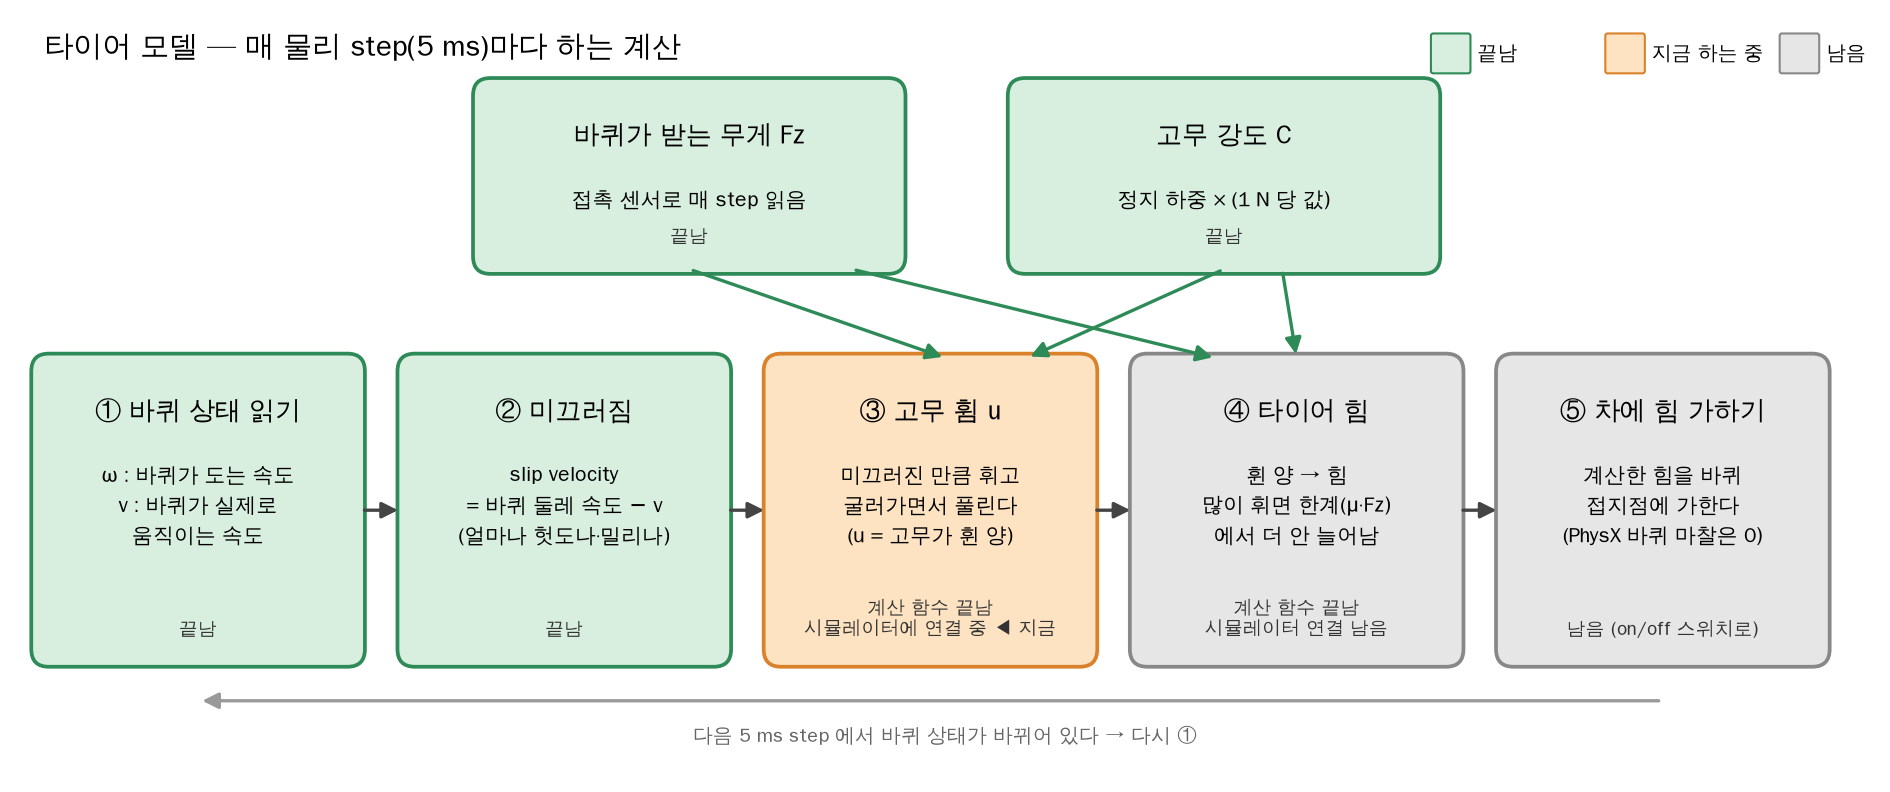
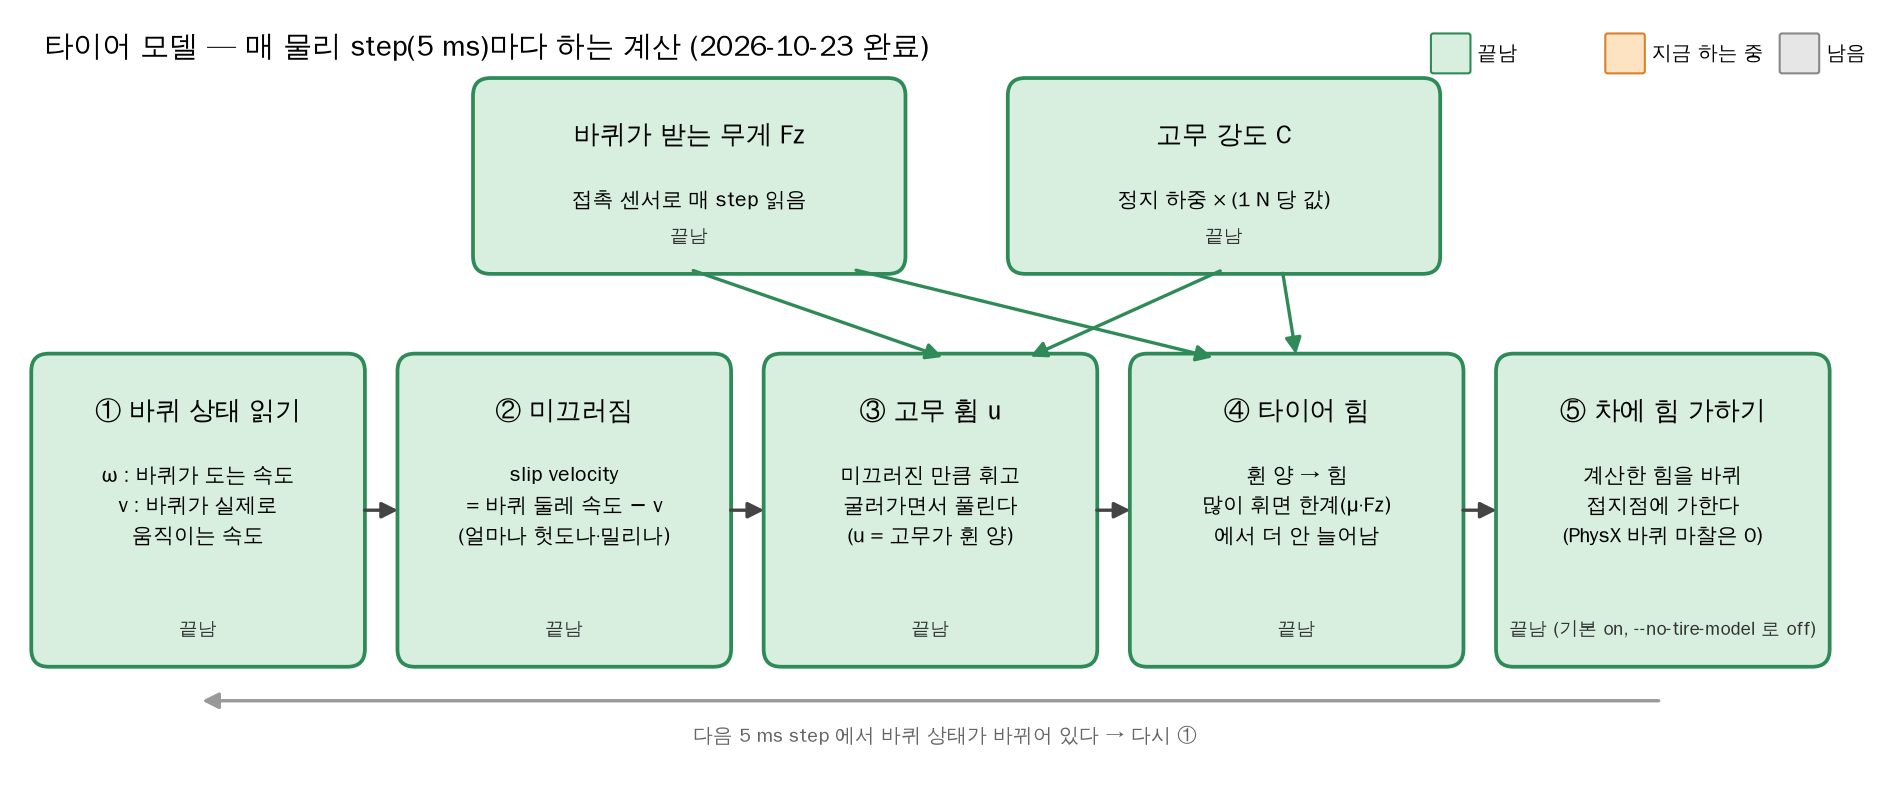
rl-racing §8-6: 종합 서버 확인 통과, 타이어 모델 완료 요약·그림 갱신
Claude-Session: https://claude.ai/code/session_01XsWYRXCQbLf9Rv8aSiuy9K

Changed region(s): [[0.3746, 0.4242, 0.9677, 0.8485], [0.3746, 0.0303, 0.4995, 0.0909]]

diff --git a/attachments/tire/make_pipeline_fig.py b/attachments/tire/make_pipeline_fig.py
@@ -39,9 +39,9 @@ xs = [0.2, 3.35, 6.5, 9.65, 12.8]
 box(xs[0], Y, W, H, "① 바퀴 상태 읽기", "ω : 바퀴가 도는 속도\nv : 바퀴가 실제로\n움직이는 속도", "끝남", DONE)
 box(xs[1], Y, W, H, "② 미끄러짐", "slip velocity\n= 바퀴 둘레 속도 − v\n(얼마나 헛도나·밀리나)", "끝남", DONE)
 box(xs[2], Y, W, H, "③ 고무 휨 u", "미끄러진 만큼 휘고\n굴러가면서 풀린다\n(u = 고무가 휜 양)",
-    "계산 함수 끝남\n시뮬레이터에 연결 중 ◀ 지금", DOING)
-box(xs[3], Y, W, H, "④ 타이어 힘", "휜 양 → 힘\n많이 휘면 한계(μ·Fz)\n에서 더 안 늘어남", "계산 함수 끝남\n시뮬레이터 연결 남음", TODO)
-box(xs[4], Y, W, H, "⑤ 차에 힘 가하기", "계산한 힘을 바퀴\n접지점에 가한다\n(PhysX 바퀴 마찰은 0)", "남음 (on/off 스위치로)", TODO)
+    "끝남", DONE)
+box(xs[3], Y, W, H, "④ 타이어 힘", "휜 양 → 힘\n많이 휘면 한계(μ·Fz)\n에서 더 안 늘어남", "끝남", DONE)
+box(xs[4], Y, W, H, "⑤ 차에 힘 가하기", "계산한 힘을 바퀴\n접지점에 가한다\n(PhysX 바퀴 마찰은 0)", "끝남 (기본 on, --no-tire-model 로 off)", DONE)
 for i in range(4):
     arrow(xs[i] + W + 0.02, Y + H / 2, xs[i + 1] - 0.02, Y + H / 2)
 arrow(xs[4] + W / 2, Y - 0.35, xs[0] + W / 2, Y - 0.35, color="#999")
@@ -54,7 +54,7 @@ arrow(5.8, IY - 0.02, xs[2] + W * 0.55, Y + H + 0.02, color="#2e8b57")
 arrow(10.4, IY - 0.02, xs[2] + W * 0.8, Y + H + 0.02, color="#2e8b57")
 arrow(7.2, IY - 0.02, xs[3] + W * 0.25, Y + H + 0.02, color="#2e8b57")
 arrow(10.9, IY - 0.02, xs[3] + W * 0.5, Y + H + 0.02, color="#2e8b57")
-ax.text(0.25, 6.25, "타이어 모델 — 매 물리 step(5 ms)마다 하는 계산", fontsize=14, fontweight="bold")
+ax.text(0.25, 6.25, "타이어 모델 — 매 물리 step(5 ms)마다 하는 계산 (2026-10-23 완료)", fontsize=14, fontweight="bold")
 for i, (c, t) in enumerate(((DONE, "끝남"), (DOING, "지금 하는 중"), (TODO, "남음"))):
     ax.add_patch(FancyBboxPatch((12.2 + i * 1.5, 6.12), 0.3, 0.3, boxstyle="round,pad=0.02", fc=c, ec=EDGE[c]))
     ax.text(12.58 + i * 1.5, 6.27, t, va="center", fontsize=9.5)

diff --git a/MOC/rl-racing 구조.md b/MOC/rl-racing 구조.md
@@ -1405,6 +1405,20 @@ headless 물리(학습)는 영향 없음. `render_check.py` 는 드라이버가 
     기울기 0.67°/g 는 cornering stiffness 예측 0.57°/g 와 가까움. 한계 근처(0.82 g)에서 δ_us 1.37° 로 급증(brush saturation)
   - μ 0.5 의 4 m/s: a_y 0.488 g ≈ μg 에서 막히고 반지름이 거의 두 배(ρ 0.315) — **한계에서 understeer(앞이 먼저 포화), spin 아님**.
     앞이 먼저 포화하는 이유: per-load C_α 가 뒤가 큼(16.18 대 13.94) + 앞 friction 일부를 센터 잠김 drag 가 씀(combined slip)
+- ✅ **종합 서버 확인 (2026-10-23)**: flat on ①⑥⑦ PASS(⑧ 보고) · flat off ①③⑥ PASS · map on ④⑤ PASS · map off ④⑤ PASS
+
+> [!abstract] 타이어 모델 완료 요약 (2026-10-23) — 그림 `attachments/tire/pipeline.png`
+> **무엇**: 바퀴의 PhysX 마찰 대신 PhysX Vehicles 의 Michigan 식(brush + μ-slip 3점 + load 의존 C_α) + 직렬 carcass relaxation(σ 2 cm, c 15 N·s/m)
+> 으로 force 를 계산해 바퀴 body 의 접지점에 외력으로 가한다. **기본 on** (`--no-tire-model` = PhysX 마찰 비교 모드). 5 ms 마다 ① 바퀴 속도 → ② slip velocity
+> → ③ u 갱신 → ④ force(상한 μ_eff·F_z) → ⑤ 외력. 입력 F_z 는 접촉 센서(기본 켬), C 는 sim 의 질량·COM 으로 잰 rest load × per-load 값
+> **코드**: tire.py(순수 함수) · geometry.py(lateral 축, 접지점 모멘트) · env.py(초기화·u·force·적용·shape 마찰 0·공중 시간) · env_cfg(필드·스위치)
+> · eval/tire_check.py · check_env `--tire-model`·⑦·⑧
+> **검증 근거**: 직진 a 1.993/2.0, M·a = Σf_x 6.915 N · ⑦ slip 곡선 정점 전 오차 0.21%(μ1)·0.52%(μ0.5), μ0.5 정점 = μMg · on ③ μ≤0.5 = 0.8μg(±0.4%)
+> · ⑧ M·a_y = 가한 force(err 0.000), δ_us ≈ Δslip, K_us 기울기 0.67°/g(예측 0.57) · check_env 두 모드·두 장면 통과
+> **단순화·열린 항목**: ① C_κ 가 load 와 무관한 상수(PhysX longStiff) — 가속 중 앞이 더 많이 냄 ② rolling resistance 없음(두 모드) — coasting bag
+> ③ 타이어 값 전부 임시(lateral 은 (b) 3/tan(1/C_S)) — 9차 bag 피팅 ④ 센터 잠김 understeer offset 0.15°·tight corner — bag 원 주행과 비교
+> ⑤ Isaac Lab 2.3.2 force-at-position 좌표계 버그 회피(모멘트 직접 계산) — 6.2 이주 때 positions 방식 재검토 ⑥ 공중 바퀴 결정 (1) — 스폰·벽 충돌 때만
+> ⑦ 낮은 μ 에서 완전 wheelspin 이면 차가 돌기 시작(⑦ μ0.5, 가설·yaw 확인 선택) ⑧ off 모드는 비교용으로 유지
 
 **8차 구조 제안 — 센터 잠김 소프트웨어 결합 (2026-10-19, 위 결정으로 확정):**
 - 모델: 모터 토크는 지금처럼 네 바퀴에 똑같이 + **앞뒤 축 사이에 가상의 축(driveshaft)** — 앞축 평균 각 − 뒤축 평균 각(비틀림 Δθ)에 스프링 k,
